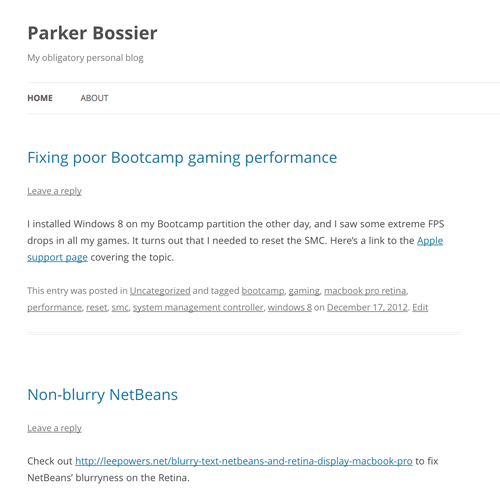
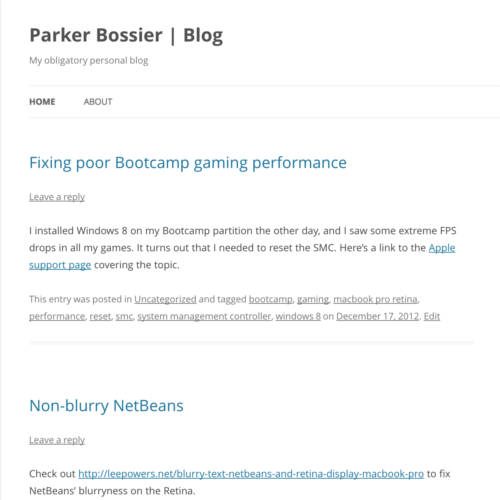
shits n giggz

diff --git a/app/webroot/js/portfolio.js b/app/webroot/js/portfolio.js
@@ -1,3 +1,6 @@
+// re-center on resize
+$(window).resize(valignHeightAdjust);
+
 // DOM load
 $(function() {
     valignHeightAdjust();
@@ -38,9 +41,12 @@ function valignHeightAdjust() {
     $('.description-wrapper').height(cardWidth);
 
     // vertically center the cards
-    //var docHeight = $(document).height();
-    //var rowOffset = $('.row.card-row').offset().top;
-    //$('.card').css('margin-top', (.9*docHeight-rowOffset-cardWidth)/2);
+    var docHeight = $(document).height();
+    var rowOffset = $('.row').offset().top;
+    var newOffset = (.9*docHeight-rowOffset-cardWidth*2)/2;
+    if (newOffset < 0)
+        newOffset = 0;
+    $('.row:first').css('margin-top', newOffset);
 
     // overlay the shadow divs
     $('.card-shadow').width(cardWidth).height(cardWidth);
